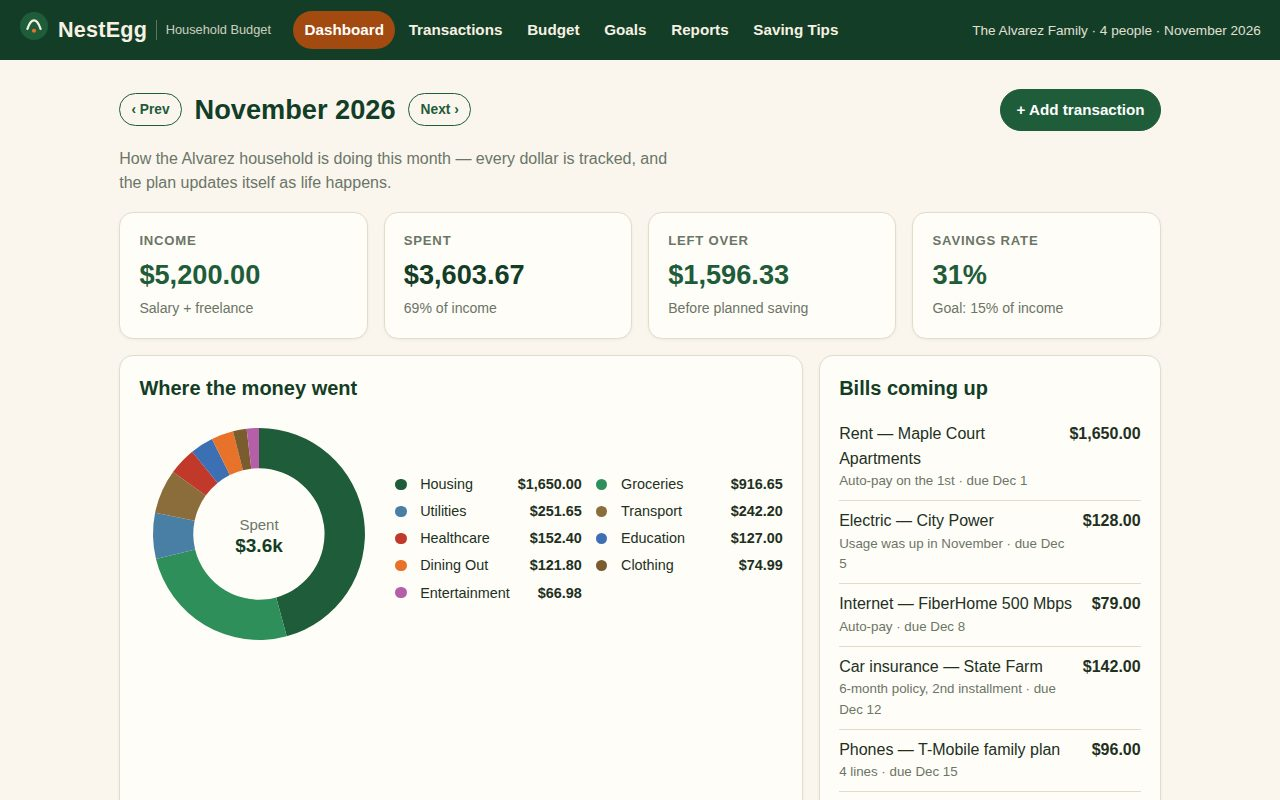
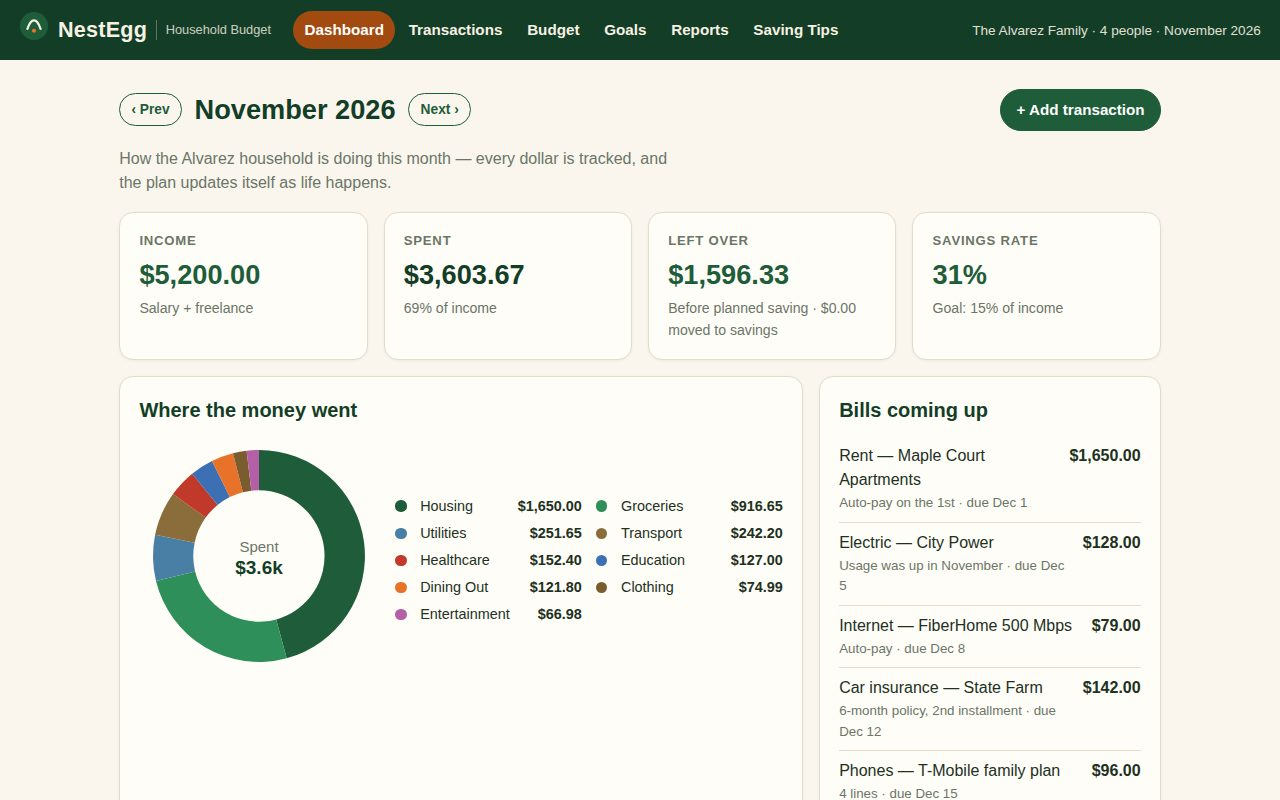
rev1b: search also matches category; one-shot form notices; reset clears filters; noscript note
- Search now matches description or category
- Form success/error notices show exactly once, never stale on re-render
- Reset demo data also clears the Transactions search/category filter
- Dashboard Left over note shows savings moved this month
- noscript message in index.html

diff --git a/app/view-transactions.js b/app/view-transactions.js
@@ -9,12 +9,19 @@ let addMsg = "";
 let editMsg = "";
 let addNotice = "";
 
+// Called when the demo data is reset, so a search typed earlier does not
+// keep filtering the fresh sample (module state otherwise outlives the data).
+export function resetFilters() {
+  filterCat = "All";
+  searchText = "";
+}
+
 function filteredTx(state, month) {
   let txs = transactionsForMonth(state, month);
   if (filterCat !== "All") txs = txs.filter((t) => t.cat === filterCat);
   if (searchText) {
     const q = searchText.toLowerCase();
-    txs = txs.filter((t) => t.desc.toLowerCase().includes(q));
+    txs = txs.filter((t) => t.desc.toLowerCase().includes(q) || t.cat.toLowerCase().includes(q));
   }
   return txs;
 }
@@ -45,6 +52,10 @@ function countText(count) {
 export function render(ctx) {
   const { state, month } = ctx;
   const { rows, count } = tableBody(state, month);
+  // A notice is shown exactly once: the render after the add consumes it,
+  // so it never goes stale on a later month switch or route change.
+  const notice = addNotice;
+  addNotice = "";
   const catOptions = ["All", "Income", ...CATEGORIES.map((c) => c.name)]
     .map((c) => `<option ${c === filterCat ? "selected" : ""}>${esc(c)}</option>`).join("");
 
@@ -54,7 +65,7 @@ export function render(ctx) {
   <div class="card mt">
     <div class="toolbar">
       <div class="field"><label for="f-cat">Category</label><select id="f-cat">${catOptions}</select></div>
-      <div class="field"><label for="f-search">Search</label><input id="f-search" type="search" placeholder="e.g. Costco" value="${esc(searchText)}"></div>
+      <div class="field"><label for="f-search">Search</label><input id="f-search" type="search" placeholder="e.g. Costco or Groceries" value="${esc(searchText)}"></div>
       <button class="btn" id="show-add">+ Add transaction</button>
     </div>
     <form id="add-form" class="inline-form" aria-label="Add transaction">
@@ -65,7 +76,7 @@ export function render(ctx) {
       </div>
       <div class="field"><label for="a-desc">Description</label><input id="a-desc" type="text" placeholder="What was it for?" required></div>
       <p class="form-msg" id="add-msg" role="alert">${esc(addMsg)}</p>
-      <p class="hint" id="add-notice" role="status">${esc(addNotice)}</p>
+      <p class="hint" id="add-notice" role="status">${esc(notice)}</p>
       <div class="form-actions"><button class="btn" type="submit">Save transaction</button><button class="btn ghost" type="button" id="cancel-add">Cancel</button></div>
     </form>
     <form id="edit-form" class="inline-form" aria-label="Edit transaction">
@@ -104,6 +115,8 @@ export function bind(el, ctx) {
   el.querySelector("#f-search").addEventListener("input", (e) => { searchText = e.target.value; refreshTable(); });
   el.querySelector("#show-add").addEventListener("click", () => {
     addMsg = ""; addNotice = "";
+    el.querySelector("#add-msg").textContent = "";
+    el.querySelector("#add-notice").textContent = "";
     el.querySelector("#add-form").classList.add("open");
     el.querySelector("#edit-form").classList.remove("open");
   });
@@ -121,20 +134,22 @@ export function bind(el, ctx) {
   const showFormError = (id, msg) => { el.querySelector(id).textContent = msg; };
   el.querySelector("#add-form").addEventListener("submit", (e) => {
     e.preventDefault();
-    // F-14: invalid input is reported, not swallowed silently.
+    // F-14: invalid input is reported in place, not swallowed silently.
+    // The message is written straight to the DOM (no rerender happens on
+    // this path), so it can never resurface stale on a later render.
     const amt = Math.round(parseFloat(el.querySelector("#a-amt").value) * 100);
     const date = el.querySelector("#a-date").value;
     const desc = el.querySelector("#a-desc").value.trim();
-    if (!desc) { addMsg = "Please add a short description."; showFormError("#add-msg", addMsg); return; }
-    if (!/^\d{4}-\d{2}-\d{2}$/.test(date)) { addMsg = "Please pick a valid date."; showFormError("#add-msg", addMsg); return; }
-    if (!Number.isFinite(amt) || amt === 0) { addMsg = "Please enter an amount that is not zero — numbers only, e.g. -45.20 for spending."; showFormError("#add-msg", addMsg); return; }
+    if (!desc) { showFormError("#add-msg", "Please add a short description."); return; }
+    if (!/^\d{4}-\d{2}-\d{2}$/.test(date)) { showFormError("#add-msg", "Please pick a valid date."); return; }
+    if (!Number.isFinite(amt) || amt === 0) { showFormError("#add-msg", "Please enter an amount that is not zero — numbers only, e.g. -45.20 for spending."); return; }
     const tx = addTransaction(state, {
       date,
       desc,
       cat: el.querySelector("#a-cat").value,
       amt,
     });
-    if (!tx) { addMsg = "That transaction could not be saved — please check the amount and try again."; showFormError("#add-msg", addMsg); return; }
+    if (!tx) { showFormError("#add-msg", "That transaction could not be saved — please check the amount and try again."); return; }
     addMsg = "";
     // F-09 (same family): a date in another month is saved there, not here.
     addNotice = monthOf(date) !== month
@@ -147,16 +162,16 @@ export function bind(el, ctx) {
     const amt = Math.round(parseFloat(el.querySelector("#e-amt").value) * 100);
     const date = el.querySelector("#e-date").value;
     const desc = el.querySelector("#e-desc").value.trim();
-    if (!desc) { editMsg = "Please add a short description."; showFormError("#edit-msg", editMsg); return; }
-    if (!/^\d{4}-\d{2}-\d{2}$/.test(date)) { editMsg = "Please pick a valid date."; showFormError("#edit-msg", editMsg); return; }
-    if (!Number.isFinite(amt) || amt === 0) { editMsg = "Please enter an amount that is not zero — numbers only."; showFormError("#edit-msg", editMsg); return; }
+    if (!desc) { showFormError("#edit-msg", "Please add a short description."); return; }
+    if (!/^\d{4}-\d{2}-\d{2}$/.test(date)) { showFormError("#edit-msg", "Please pick a valid date."); return; }
+    if (!Number.isFinite(amt) || amt === 0) { showFormError("#edit-msg", "Please enter an amount that is not zero — numbers only."); return; }
     const saved = updateTransaction(state, el.querySelector("#e-id").value, {
       date,
       desc,
       cat: el.querySelector("#e-cat").value,
       amt,
     });
-    if (!saved) { editMsg = "That transaction could not be found — please reload the page and try again."; showFormError("#edit-msg", editMsg); return; }
+    if (!saved) { showFormError("#edit-msg", "That transaction could not be found — please reload the page and try again."); return; }
     editMsg = "";
     rerender();
   });

diff --git a/app/view-goals.js b/app/view-goals.js
@@ -15,6 +15,9 @@ export function render(ctx) {
     const funded = g.saved >= g.target;
     const ratio = Math.min(1, g.saved / g.target);
     const toGo = Math.max(0, g.target - g.saved);
+    // A contribution note is shown exactly once: this render consumes it.
+    const notice = contribNotices[g.id] || "";
+    delete contribNotices[g.id];
     const form = funded
       ? `<p><span class="badge">Fully funded</span> <span class="hint">This goal is complete — the money is set aside.</span></p>`
       : `<form class="contribute-form" data-goal="${esc(g.id)}">
@@ -22,7 +25,7 @@ export function render(ctx) {
           <div class="field"><label for="c-${esc(g.id)}">Add money ($)</label><input id="c-${esc(g.id)}" type="number" min="1" step="1" placeholder="50" required></div>
           <div class="field"><label>&nbsp;</label><button class="btn" type="submit">Contribute</button></div>
         </div>
-        <p class="form-msg" role="alert">${esc(contribNotices[g.id] || "")}</p>
+        <p class="form-msg" role="alert">${esc(notice)}</p>
         <p class="hint">Contributing records a real Savings transfer this month. It moves money to this goal — it is not counted as spending, so the Dashboard stays honest.</p>
       </form>`;
     return `<div class="card">
@@ -61,8 +64,10 @@ export function bind(el, ctx) {
     e.preventDefault();
     const target = Math.round(parseFloat(el.querySelector("#g-target").value) * 100);
     const name = el.querySelector("#g-name").value.trim();
-    if (!name) { goalFormMsg = "Please give the goal a name."; el.querySelector("#goal-msg").textContent = goalFormMsg; return; }
-    if (!Number.isFinite(target) || target <= 0) { goalFormMsg = "Please enter a target above $0 — numbers only, e.g. 800."; el.querySelector("#goal-msg").textContent = goalFormMsg; return; }
+    // Errors go straight to the DOM (no rerender on this path) so a stale
+    // message can never resurface on a later render.
+    if (!name) { el.querySelector("#goal-msg").textContent = "Please give the goal a name."; return; }
+    if (!Number.isFinite(target) || target <= 0) { el.querySelector("#goal-msg").textContent = "Please enter a target above $0 — numbers only, e.g. 800."; return; }
     goalFormMsg = "";
     addGoal(state, { name, target });
     rerender();
@@ -82,14 +87,12 @@ export function bind(el, ctx) {
       if (!goal) return;
       const remaining = goal.target - goal.saved;
       if (!Number.isFinite(cents) || cents <= 0) {
-        contribNotices[goal.id] = "Please enter an amount above $0 — numbers only, e.g. 50.";
-        f.querySelector(".form-msg").textContent = contribNotices[goal.id];
+        f.querySelector(".form-msg").textContent = "Please enter an amount above $0 — numbers only, e.g. 50.";
         return;
       }
       // F-08: never contribute past the target — say the maximum out loud.
       if (cents > remaining) {
-        contribNotices[goal.id] = `Only ${money(remaining)} to go on this goal — please enter ${money(remaining)} or less.`;
-        f.querySelector(".form-msg").textContent = contribNotices[goal.id];
+        f.querySelector(".form-msg").textContent = `Only ${money(remaining)} to go on this goal — please enter ${money(remaining)} or less.`;
         return;
       }
       // F-09: the transfer is dated inside the month being viewed.

diff --git a/app/view-dashboard.js b/app/view-dashboard.js
@@ -46,7 +46,7 @@ export function render(ctx) {
   <div class="grid grid-4 mt">
     <div class="card stat"><div class="label">Income</div><div class="value good">${money(t.income)}</div><div class="note">Salary + freelance</div></div>
     <div class="card stat"><div class="label">Spent</div><div class="value">${money(t.spent)}</div><div class="note">${pct(t.spent, t.income)} of income</div></div>
-    <div class="card stat"><div class="label">Left over</div><div class="value ${t.remaining < 0 ? "warn" : "good"}">${money(t.remaining)}</div><div class="note">Before planned saving</div></div>
+    <div class="card stat"><div class="label">Left over</div><div class="value ${t.remaining < 0 ? "warn" : "good"}">${money(t.remaining)}</div><div class="note">Before planned saving · ${money(savingsMoved(state, month))} moved to savings</div></div>
     <div class="card stat"><div class="label">Savings rate</div><div class="value good">${saveRate}%</div><div class="note">Goal: 15% of income</div></div>
   </div>
   <div class="grid grid-2-1 mt">

diff --git a/app/view-budget.js b/app/view-budget.js
@@ -89,8 +89,7 @@ export function bind(el, ctx) {
       const raw = (input.value || "").trim();
       const v = Math.round(parseFloat(raw) * 100);
       if (raw === "" || !Number.isFinite(v) || v < 0) {
-        budgetMsg = `“${raw || "blank"}” is not a valid limit for ${input.dataset.budget} — please enter a number of dollars, e.g. 620.50.`;
-        el.querySelector("#budget-msg").textContent = budgetMsg;
+        el.querySelector("#budget-msg").textContent = `“${raw || "blank"}” is not a valid limit for ${input.dataset.budget} — please enter a number of dollars, e.g. 620.50.`;
         input.value = ((state.budgets[input.dataset.budget] || 0) / 100).toFixed(2);
         return;
       }

diff --git a/app/index.html b/app/index.html
@@ -26,7 +26,7 @@
   </nav>
   <div class="household">The Alvarez Family · 4 people · <span id="header-month"></span></div>
 </header>
-<main id="view" aria-live="polite"></main>
+<main id="view" aria-live="polite"><noscript><p style="padding:1rem">NestEgg needs JavaScript to show your budget — please enable it and reload.</p></noscript></main>
 <footer class="pagefoot">
   <p>NestEgg keeps your budget on your own device — no account, no cloud, no ads. Data is stored in this browser only.</p>
   <p>Demo household: the Alvarez family. All figures are the family's own sample budget.</p>

diff --git a/app/main.js b/app/main.js
@@ -60,6 +60,7 @@ document.addEventListener("click", (e) => {
 document.getElementById("reset-demo").addEventListener("click", () => {
   if (window.confirm("Reset the demo data back to the Alvarez family's original sample? Your changes will be lost.")) {
     state = resetState();
+    Transactions.resetFilters();
     month = "2026-11";
     render();
   }
